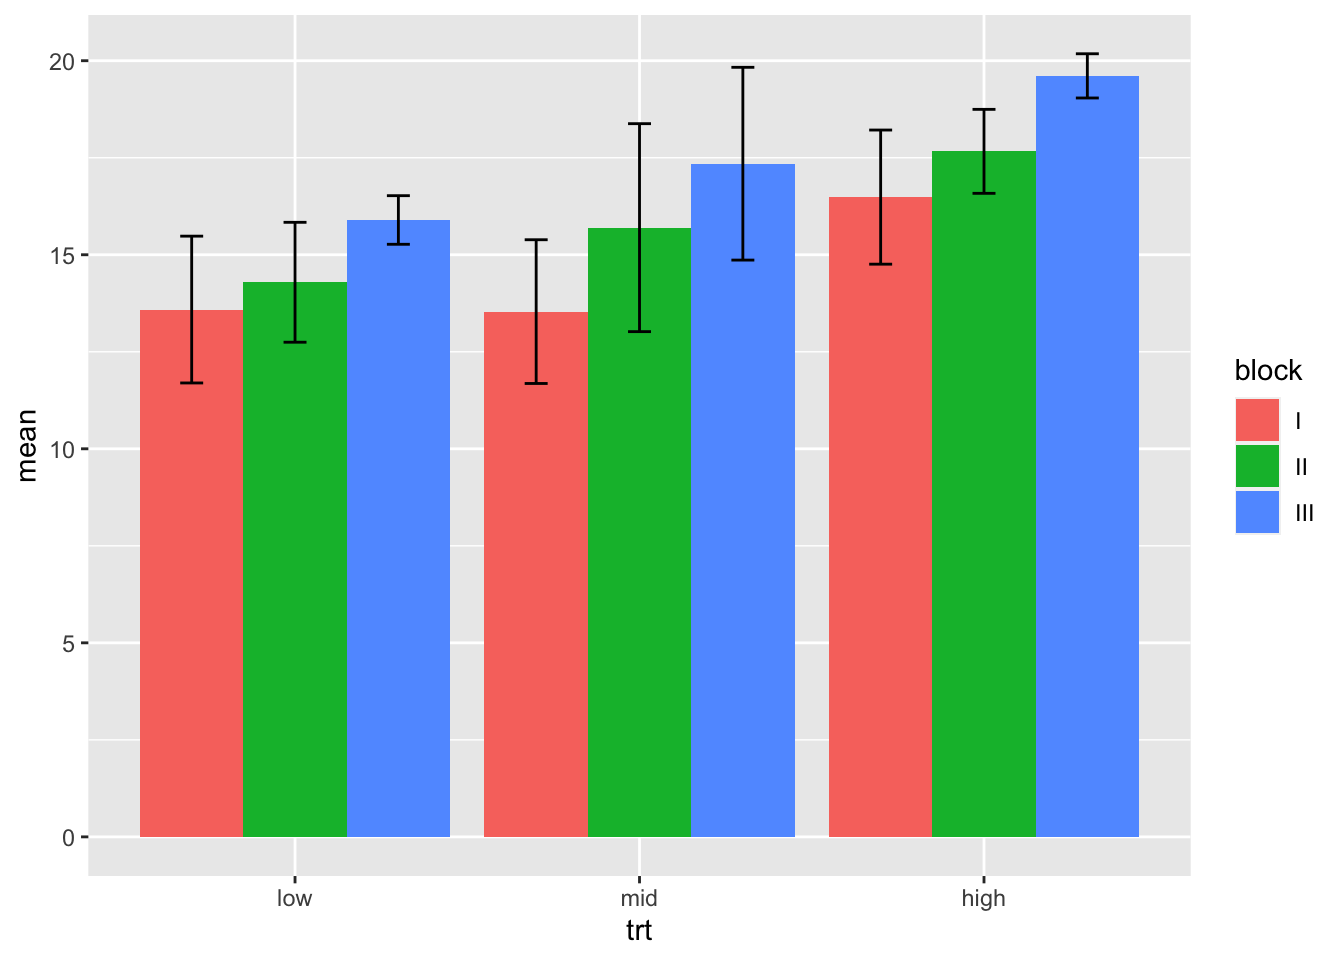
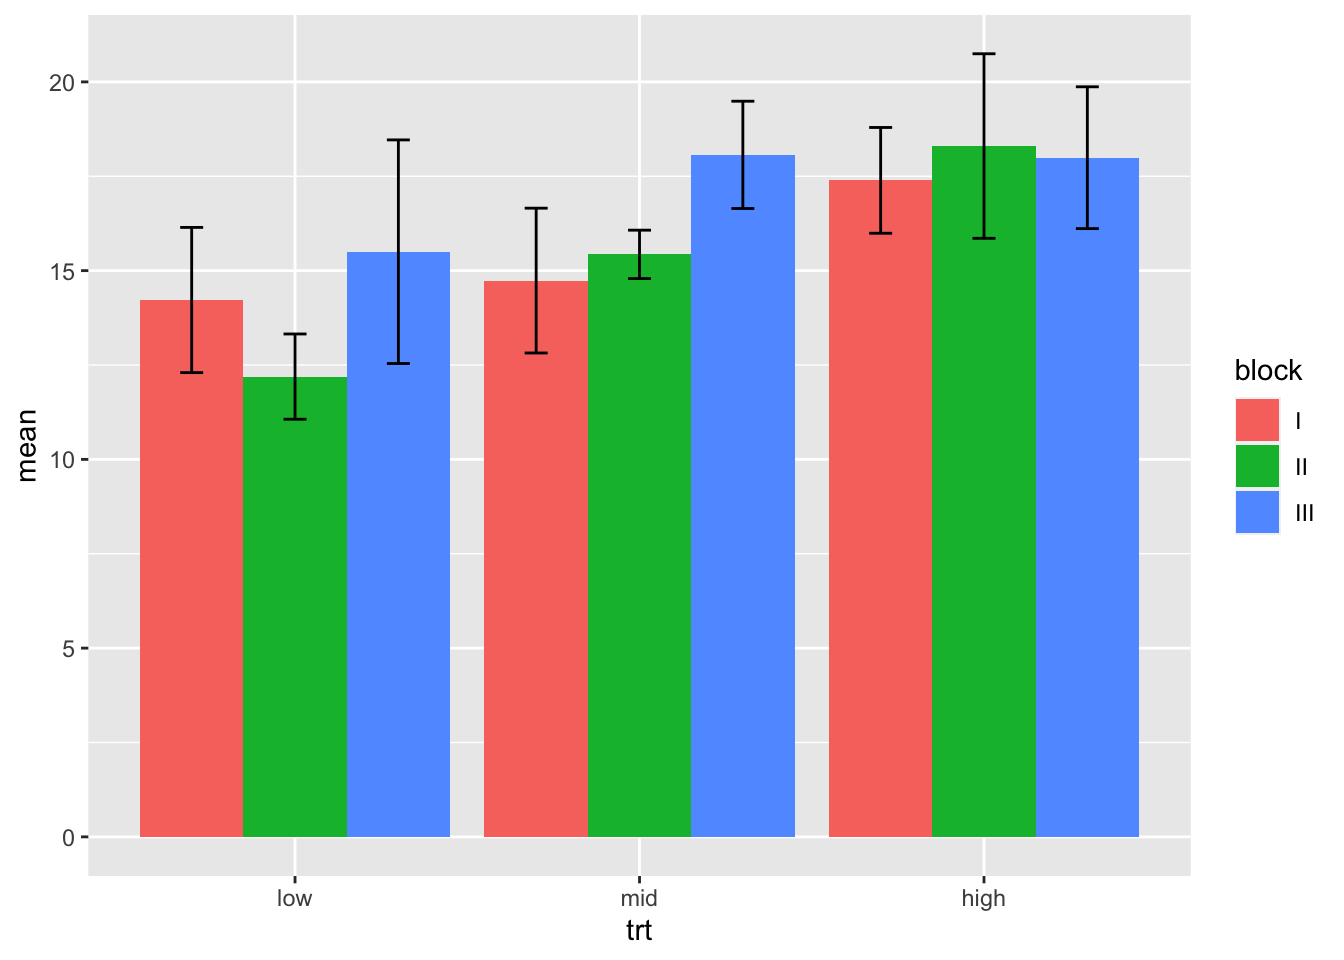
added text

diff --git a/docs/app-example-analysis.html b/docs/app-example-analysis.html
@@ -538,7 +538,7 @@ code span.wa { color: #60a0b0; font-weight: bold; font-style: italic; } /* Warni
 </header><div class="cell">
 
 </div>
-<p><em>Version vom October 31, 2022 um 18:28:08</em></p>
+<p><em>Version vom October 31, 2022 um 18:34:34</em></p>
 <section id="genutzte-r-pakete-für-das-kapitel" class="level2" data-number="A.1"><h2 data-number="A.1" class="anchored" data-anchor-id="genutzte-r-pakete-für-das-kapitel">
 <span class="header-section-number">A.1</span> Genutzte R Pakete für das Kapitel</h2>
 <p>Wir wollen folgende R Pakete in diesem Kapitel nutzen.</p>
@@ -666,217 +666,217 @@ X-squared = 13.8689, df = 3, p-value = 0.0030892</code></pre>
 <td style="text-align: center;">low</td>
 <td style="text-align: center;">I</td>
 <td style="text-align: center;">1</td>
-<td style="text-align: center;">12.77</td>
+<td style="text-align: center;">13.54</td>
 </tr>
 <tr class="even">
 <td style="text-align: center;">low</td>
 <td style="text-align: center;">I</td>
 <td style="text-align: center;">2</td>
-<td style="text-align: center;">16.08</td>
+<td style="text-align: center;">14.58</td>
 </tr>
 <tr class="odd">
 <td style="text-align: center;">low</td>
 <td style="text-align: center;">I</td>
 <td style="text-align: center;">3</td>
-<td style="text-align: center;">11.65</td>
+<td style="text-align: center;">16.67</td>
 </tr>
 <tr class="even">
 <td style="text-align: center;">low</td>
 <td style="text-align: center;">I</td>
 <td style="text-align: center;">4</td>
-<td style="text-align: center;">13.85</td>
+<td style="text-align: center;">12.10</td>
 </tr>
 <tr class="odd">
 <td style="text-align: center;">low</td>
 <td style="text-align: center;">II</td>
 <td style="text-align: center;">1</td>
-<td style="text-align: center;">14.81</td>
+<td style="text-align: center;">11.04</td>
 </tr>
 <tr class="even">
 <td style="text-align: center;">low</td>
 <td style="text-align: center;">II</td>
 <td style="text-align: center;">2</td>
-<td style="text-align: center;">15.95</td>
+<td style="text-align: center;">12.24</td>
 </tr>
 <tr class="odd">
 <td style="text-align: center;">low</td>
 <td style="text-align: center;">II</td>
 <td style="text-align: center;">3</td>
-<td style="text-align: center;">12.26</td>
+<td style="text-align: center;">11.78</td>
 </tr>
 <tr class="even">
 <td style="text-align: center;">low</td>
 <td style="text-align: center;">II</td>
 <td style="text-align: center;">4</td>
-<td style="text-align: center;">14.14</td>
+<td style="text-align: center;">13.72</td>
 </tr>
 <tr class="odd">
 <td style="text-align: center;">low</td>
 <td style="text-align: center;">III</td>
 <td style="text-align: center;">1</td>
-<td style="text-align: center;">16.44</td>
+<td style="text-align: center;">19.87</td>
 </tr>
 <tr class="even">
 <td style="text-align: center;">low</td>
 <td style="text-align: center;">III</td>
 <td style="text-align: center;">2</td>
-<td style="text-align: center;">15.52</td>
+<td style="text-align: center;">14.63</td>
 </tr>
 <tr class="odd">
 <td style="text-align: center;">low</td>
 <td style="text-align: center;">III</td>
 <td style="text-align: center;">3</td>
-<td style="text-align: center;">15.21</td>
+<td style="text-align: center;">14.18</td>
 </tr>
 <tr class="even">
 <td style="text-align: center;">low</td>
 <td style="text-align: center;">III</td>
 <td style="text-align: center;">4</td>
-<td style="text-align: center;">16.42</td>
+<td style="text-align: center;">13.33</td>
 </tr>
 <tr class="odd">
 <td style="text-align: center;">mid</td>
 <td style="text-align: center;">I</td>
 <td style="text-align: center;">1</td>
-<td style="text-align: center;">11.17</td>
+<td style="text-align: center;">13.21</td>
 </tr>
 <tr class="even">
 <td style="text-align: center;">mid</td>
 <td style="text-align: center;">I</td>
 <td style="text-align: center;">2</td>
-<td style="text-align: center;">13.39</td>
+<td style="text-align: center;">13.74</td>
 </tr>
 <tr class="odd">
 <td style="text-align: center;">mid</td>
 <td style="text-align: center;">I</td>
 <td style="text-align: center;">3</td>
-<td style="text-align: center;">13.92</td>
+<td style="text-align: center;">14.49</td>
 </tr>
 <tr class="even">
 <td style="text-align: center;">mid</td>
 <td style="text-align: center;">I</td>
 <td style="text-align: center;">4</td>
-<td style="text-align: center;">15.66</td>
+<td style="text-align: center;">17.50</td>
 </tr>
 <tr class="odd">
 <td style="text-align: center;">mid</td>
 <td style="text-align: center;">II</td>
 <td style="text-align: center;">1</td>
-<td style="text-align: center;">13.51</td>
+<td style="text-align: center;">14.57</td>
 </tr>
 <tr class="even">
 <td style="text-align: center;">mid</td>
 <td style="text-align: center;">II</td>
 <td style="text-align: center;">2</td>
-<td style="text-align: center;">18.08</td>
+<td style="text-align: center;">15.45</td>
 </tr>
 <tr class="odd">
 <td style="text-align: center;">mid</td>
 <td style="text-align: center;">II</td>
 <td style="text-align: center;">3</td>
-<td style="text-align: center;">17.95</td>
+<td style="text-align: center;">15.60</td>
 </tr>
 <tr class="even">
 <td style="text-align: center;">mid</td>
 <td style="text-align: center;">II</td>
 <td style="text-align: center;">4</td>
-<td style="text-align: center;">13.25</td>
+<td style="text-align: center;">16.11</td>
 </tr>
 <tr class="odd">
 <td style="text-align: center;">mid</td>
 <td style="text-align: center;">III</td>
 <td style="text-align: center;">1</td>
-<td style="text-align: center;">19.74</td>
+<td style="text-align: center;">20.15</td>
 </tr>
 <tr class="even">
 <td style="text-align: center;">mid</td>
 <td style="text-align: center;">III</td>
 <td style="text-align: center;">2</td>
-<td style="text-align: center;">19.23</td>
+<td style="text-align: center;">16.99</td>
 </tr>
 <tr class="odd">
 <td style="text-align: center;">mid</td>
 <td style="text-align: center;">III</td>
 <td style="text-align: center;">3</td>
-<td style="text-align: center;">14.99</td>
+<td style="text-align: center;">17.40</td>
 </tr>
 <tr class="even">
 <td style="text-align: center;">mid</td>
 <td style="text-align: center;">III</td>
 <td style="text-align: center;">4</td>
-<td style="text-align: center;">15.42</td>
+<td style="text-align: center;">17.73</td>
 </tr>
 <tr class="odd">
 <td style="text-align: center;">high</td>
 <td style="text-align: center;">I</td>
 <td style="text-align: center;">1</td>
-<td style="text-align: center;">18.25</td>
+<td style="text-align: center;">19.20</td>
 </tr>
 <tr class="even">
 <td style="text-align: center;">high</td>
 <td style="text-align: center;">I</td>
 <td style="text-align: center;">2</td>
-<td style="text-align: center;">15.93</td>
+<td style="text-align: center;">17.78</td>
 </tr>
 <tr class="odd">
 <td style="text-align: center;">high</td>
 <td style="text-align: center;">I</td>
 <td style="text-align: center;">3</td>
-<td style="text-align: center;">17.43</td>
+<td style="text-align: center;">16.46</td>
 </tr>
 <tr class="even">
 <td style="text-align: center;">high</td>
 <td style="text-align: center;">I</td>
 <td style="text-align: center;">4</td>
-<td style="text-align: center;">14.33</td>
+<td style="text-align: center;">16.13</td>
 </tr>
 <tr class="odd">
 <td style="text-align: center;">high</td>
 <td style="text-align: center;">II</td>
 <td style="text-align: center;">1</td>
-<td style="text-align: center;">18.85</td>
+<td style="text-align: center;">19.97</td>
 </tr>
 <tr class="even">
 <td style="text-align: center;">high</td>
 <td style="text-align: center;">II</td>
 <td style="text-align: center;">2</td>
-<td style="text-align: center;">16.52</td>
+<td style="text-align: center;">17.65</td>
 </tr>
 <tr class="odd">
 <td style="text-align: center;">high</td>
 <td style="text-align: center;">II</td>
 <td style="text-align: center;">3</td>
-<td style="text-align: center;">18.28</td>
+<td style="text-align: center;">20.46</td>
 </tr>
 <tr class="even">
 <td style="text-align: center;">high</td>
 <td style="text-align: center;">II</td>
 <td style="text-align: center;">4</td>
-<td style="text-align: center;">17.02</td>
+<td style="text-align: center;">15.13</td>
 </tr>
 <tr class="odd">
 <td style="text-align: center;">high</td>
 <td style="text-align: center;">III</td>
 <td style="text-align: center;">1</td>
-<td style="text-align: center;">20.39</td>
+<td style="text-align: center;">17.75</td>
 </tr>
 <tr class="even">
 <td style="text-align: center;">high</td>
 <td style="text-align: center;">III</td>
 <td style="text-align: center;">2</td>
-<td style="text-align: center;">19.16</td>
+<td style="text-align: center;">15.59</td>
 </tr>
 <tr class="odd">
 <td style="text-align: center;">high</td>
 <td style="text-align: center;">III</td>
 <td style="text-align: center;">3</td>
-<td style="text-align: center;">19.68</td>
+<td style="text-align: center;">20.11</td>
 </tr>
 <tr class="even">
 <td style="text-align: center;">high</td>
 <td style="text-align: center;">III</td>
 <td style="text-align: center;">4</td>
-<td style="text-align: center;">19.21</td>
+<td style="text-align: center;">18.52</td>
 </tr>
 </tbody>
 </table>
@@ -920,10 +920,10 @@ X-squared = 13.8689, df = 3, p-value = 0.0030892</code></pre>
 <pre><code>Analysis of Variance Table
 
 Response: rsp
-          Df  Sum Sq Mean Sq F value      Pr(&gt;F)    
-trt        2 70.7137 35.3569 12.7557 0.000090783 ***
-block      2 57.2545 28.6272 10.3278  0.00036541 ***
-Residuals 31 85.9275  2.7719                        
+          Df   Sum Sq Mean Sq  F value    Pr(&gt;F)    
+trt        2  92.4877 46.2439 12.31854 0.0001156 ***
+block      2  26.2654 13.1327  3.49831 0.0426637 *  
+Residuals 31 116.3742  3.7540                       
 ---
 Signif. codes:  0 '***' 0.001 '**' 0.01 '*' 0.05 '.' 0.1 ' ' 1</code></pre>
 </div>
@@ -941,9 +941,9 @@ Signif. codes:  0 '***' 0.001 '**' 0.01 '*' 0.05 '.' 0.1 ' ' 1</code></pre>
 <pre><code># A tibble: 3 × 3
   contrast   estimate adj.p.value
   &lt;chr&gt;         &lt;dbl&gt;       &lt;dbl&gt;
-1 mid - low     0.935      0.366 
-2 high - low    3.33       0.0001
-3 high - mid    2.39       0.0038</code></pre>
+1 mid - low      2.11      0.0318
+2 high - low     3.92      0.0001
+3 high - mid     1.82      0.0713</code></pre>
 </div>
 </div>
 </section><section id="gruppenvergleich-mit-der-emmeans-paket" class="level3" data-number="A.4.5"><h3 data-number="A.4.5" class="anchored" data-anchor-id="gruppenvergleich-mit-der-emmeans-paket">
@@ -960,9 +960,9 @@ Signif. codes:  0 '***' 0.001 '**' 0.01 '*' 0.05 '.' 0.1 ' ' 1</code></pre>
 <pre><code># A tibble: 3 × 3
   contrast   estimate adj.p.value
   &lt;chr&gt;         &lt;dbl&gt;       &lt;dbl&gt;
-1 low - mid    -0.935      0.366 
-2 low - high   -3.33       0.0001
-3 mid - high   -2.39       0.0038</code></pre>
+1 low - mid     -2.11      0.0318
+2 low - high    -3.92      0.0001
+3 mid - high    -1.82      0.0712</code></pre>
 </div>
 </div>
 </section></section><section id="auswertung-von-boniturnoten" class="level2" data-number="A.5"><h2 data-number="A.5" class="anchored" data-anchor-id="auswertung-von-boniturnoten">
